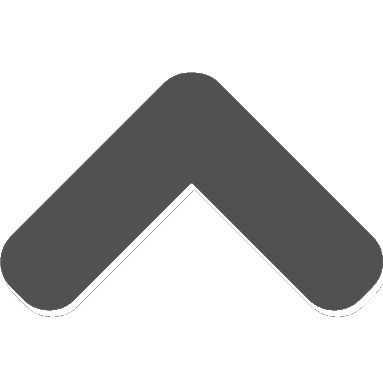
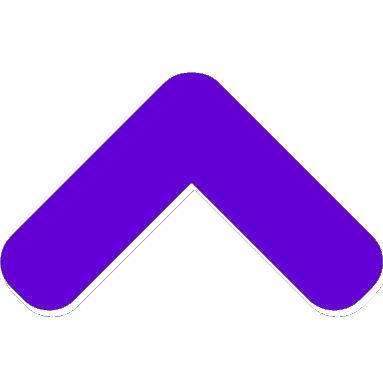
Improvement

Changed region(s): [[0.0, 0.1723, 1.0, 0.8329]]

diff --git a/style.css b/style.css
@@ -19,7 +19,7 @@ p {
   list-style-type: none;
   margin: 0;
   padding: 0;
-  background-color: black;
+  background-color: #6300d6;
   overflow: hidden;
   border-radius: 12px;
 }
@@ -27,6 +27,7 @@ p {
   float: left;
   border-right: 1px solid white;
   margin-left: 0;
+  transition-duration: 0.5s;
 }
 .navbarBox:last-child {
   border-right: none;
@@ -40,20 +41,30 @@ p {
   text-decoration: none;
   padding: 10px 10px;
   width:10vw;
+  transition-duration: 0.5s;
 }
 .active{
-  background-color: darkred;
+  background-color: #c21964;
 }
-.navbarPlace:hover:not(.active) {
-  background-color: #555;
+.navbarBox:hover:not(.active) {
+  background-color: #c8a9d6;
+}
+.navbarItem:hover:not(.active) {
+  color: black;
 }
 
 .gototop {
   position: fixed;
   bottom: 10px;
   right: 10px;
-  background-color: white;
+  background-color: #c8a9d6;
   border-radius: 12px;
-  border: 2px solid whitesmoke;
-  padding: 5px 5px;
+  padding: 7px 7px;
+}
+
+.contact {
+  margin: 0;
+  background-color: #eec9ff;
+  border-radius: 12px;
+  padding: 1px 15px;
 }

diff --git a/news.html b/news.html
@@ -12,19 +12,13 @@
 		<li class="navbarBox"><a href="index.html" class="navbarItem active">Accueil</a></li>
 		<li class="navbarBox"><a href="news.html" class="navbarItem">Actualités</a></li>
 		<li class="navbarBox"><a href="gallery.html"class="navbarItem">Galerie</a></li>
-		<li class="navbarBox"><a href=#contact class="navbarItem">Contact</a></li>
+		<li class="navbarBox"><a href="index.html#contact" class="navbarItem">Contact</a></li>
 		<li style="float:right" class="navbarBox"><a href="about.html" class="navbarItem">À propos</a></li>
 	</ul>
 	<a href=# class="gototop"><img src="images/arrowup.png" alt="Go to the top" title="Go to the top" width="60" height="60"></a>
 <!--Contenu-->
 	<br>
-	<h1>Accueil</h1>
+	<h1>Actualités</h1>
 	<br>
-	<div class="contact">
-		<h2 id="contact">Contact</h2>
-		<p>Michel Pyzikiewiez
-		<br>Mail : <a href="mailto:michel.pyzi@gmail.com">michel.pyzi@gmail.com</a>
-		<br>Téléphone : 07 82 74 49 98</p>
-	</div>
 </body>
 </html>

diff --git a/about.html b/about.html
@@ -12,19 +12,13 @@
 		<li class="navbarBox"><a href="index.html" class="navbarItem active">Accueil</a></li>
 		<li class="navbarBox"><a href="news.html" class="navbarItem">Actualités</a></li>
 		<li class="navbarBox"><a href="gallery.html"class="navbarItem">Galerie</a></li>
-		<li class="navbarBox"><a href=#contact class="navbarItem">Contact</a></li>
+		<li class="navbarBox"><a href="index.html#contact" class="navbarItem">Contact</a></li>
 		<li style="float:right" class="navbarBox"><a href="about.html" class="navbarItem">À propos</a></li>
 	</ul>
 	<a href=# class="gototop"><img src="images/arrowup.png" alt="Go to the top" title="Go to the top" width="60" height="60"></a>
 <!--Contenu-->
 	<br>
-	<h1>Accueil</h1>
+	<h1>À propos</h1>
 	<br>
-	<div class="contact">
-		<h2 id="contact">Contact</h2>
-		<p>Michel Pyzikiewiez
-		<br>Mail : <a href="mailto:michel.pyzi@gmail.com">michel.pyzi@gmail.com</a>
-		<br>Téléphone : 07 82 74 49 98</p>
-	</div>
 </body>
 </html>

diff --git a/gallery.html b/gallery.html
@@ -12,19 +12,13 @@
 		<li class="navbarBox"><a href="index.html" class="navbarItem active">Accueil</a></li>
 		<li class="navbarBox"><a href="news.html" class="navbarItem">Actualités</a></li>
 		<li class="navbarBox"><a href="gallery.html"class="navbarItem">Galerie</a></li>
-		<li class="navbarBox"><a href=#contact class="navbarItem">Contact</a></li>
+		<li class="navbarBox"><a href="index.html#contact" class="navbarItem">Contact</a></li>
 		<li style="float:right" class="navbarBox"><a href="about.html" class="navbarItem">À propos</a></li>
 	</ul>
 	<a href=# class="gototop"><img src="images/arrowup.png" alt="Go to the top" title="Go to the top" width="60" height="60"></a>
 <!--Contenu-->
 	<br>
-	<h1>Accueil</h1>
+	<h1>Galerie</h1>
 	<br>
-	<div class="contact">
-		<h2 id="contact">Contact</h2>
-		<p>Michel Pyzikiewiez
-		<br>Mail : <a href="mailto:michel.pyzi@gmail.com">michel.pyzi@gmail.com</a>
-		<br>Téléphone : 07 82 74 49 98</p>
-	</div>
 </body>
 </html>
